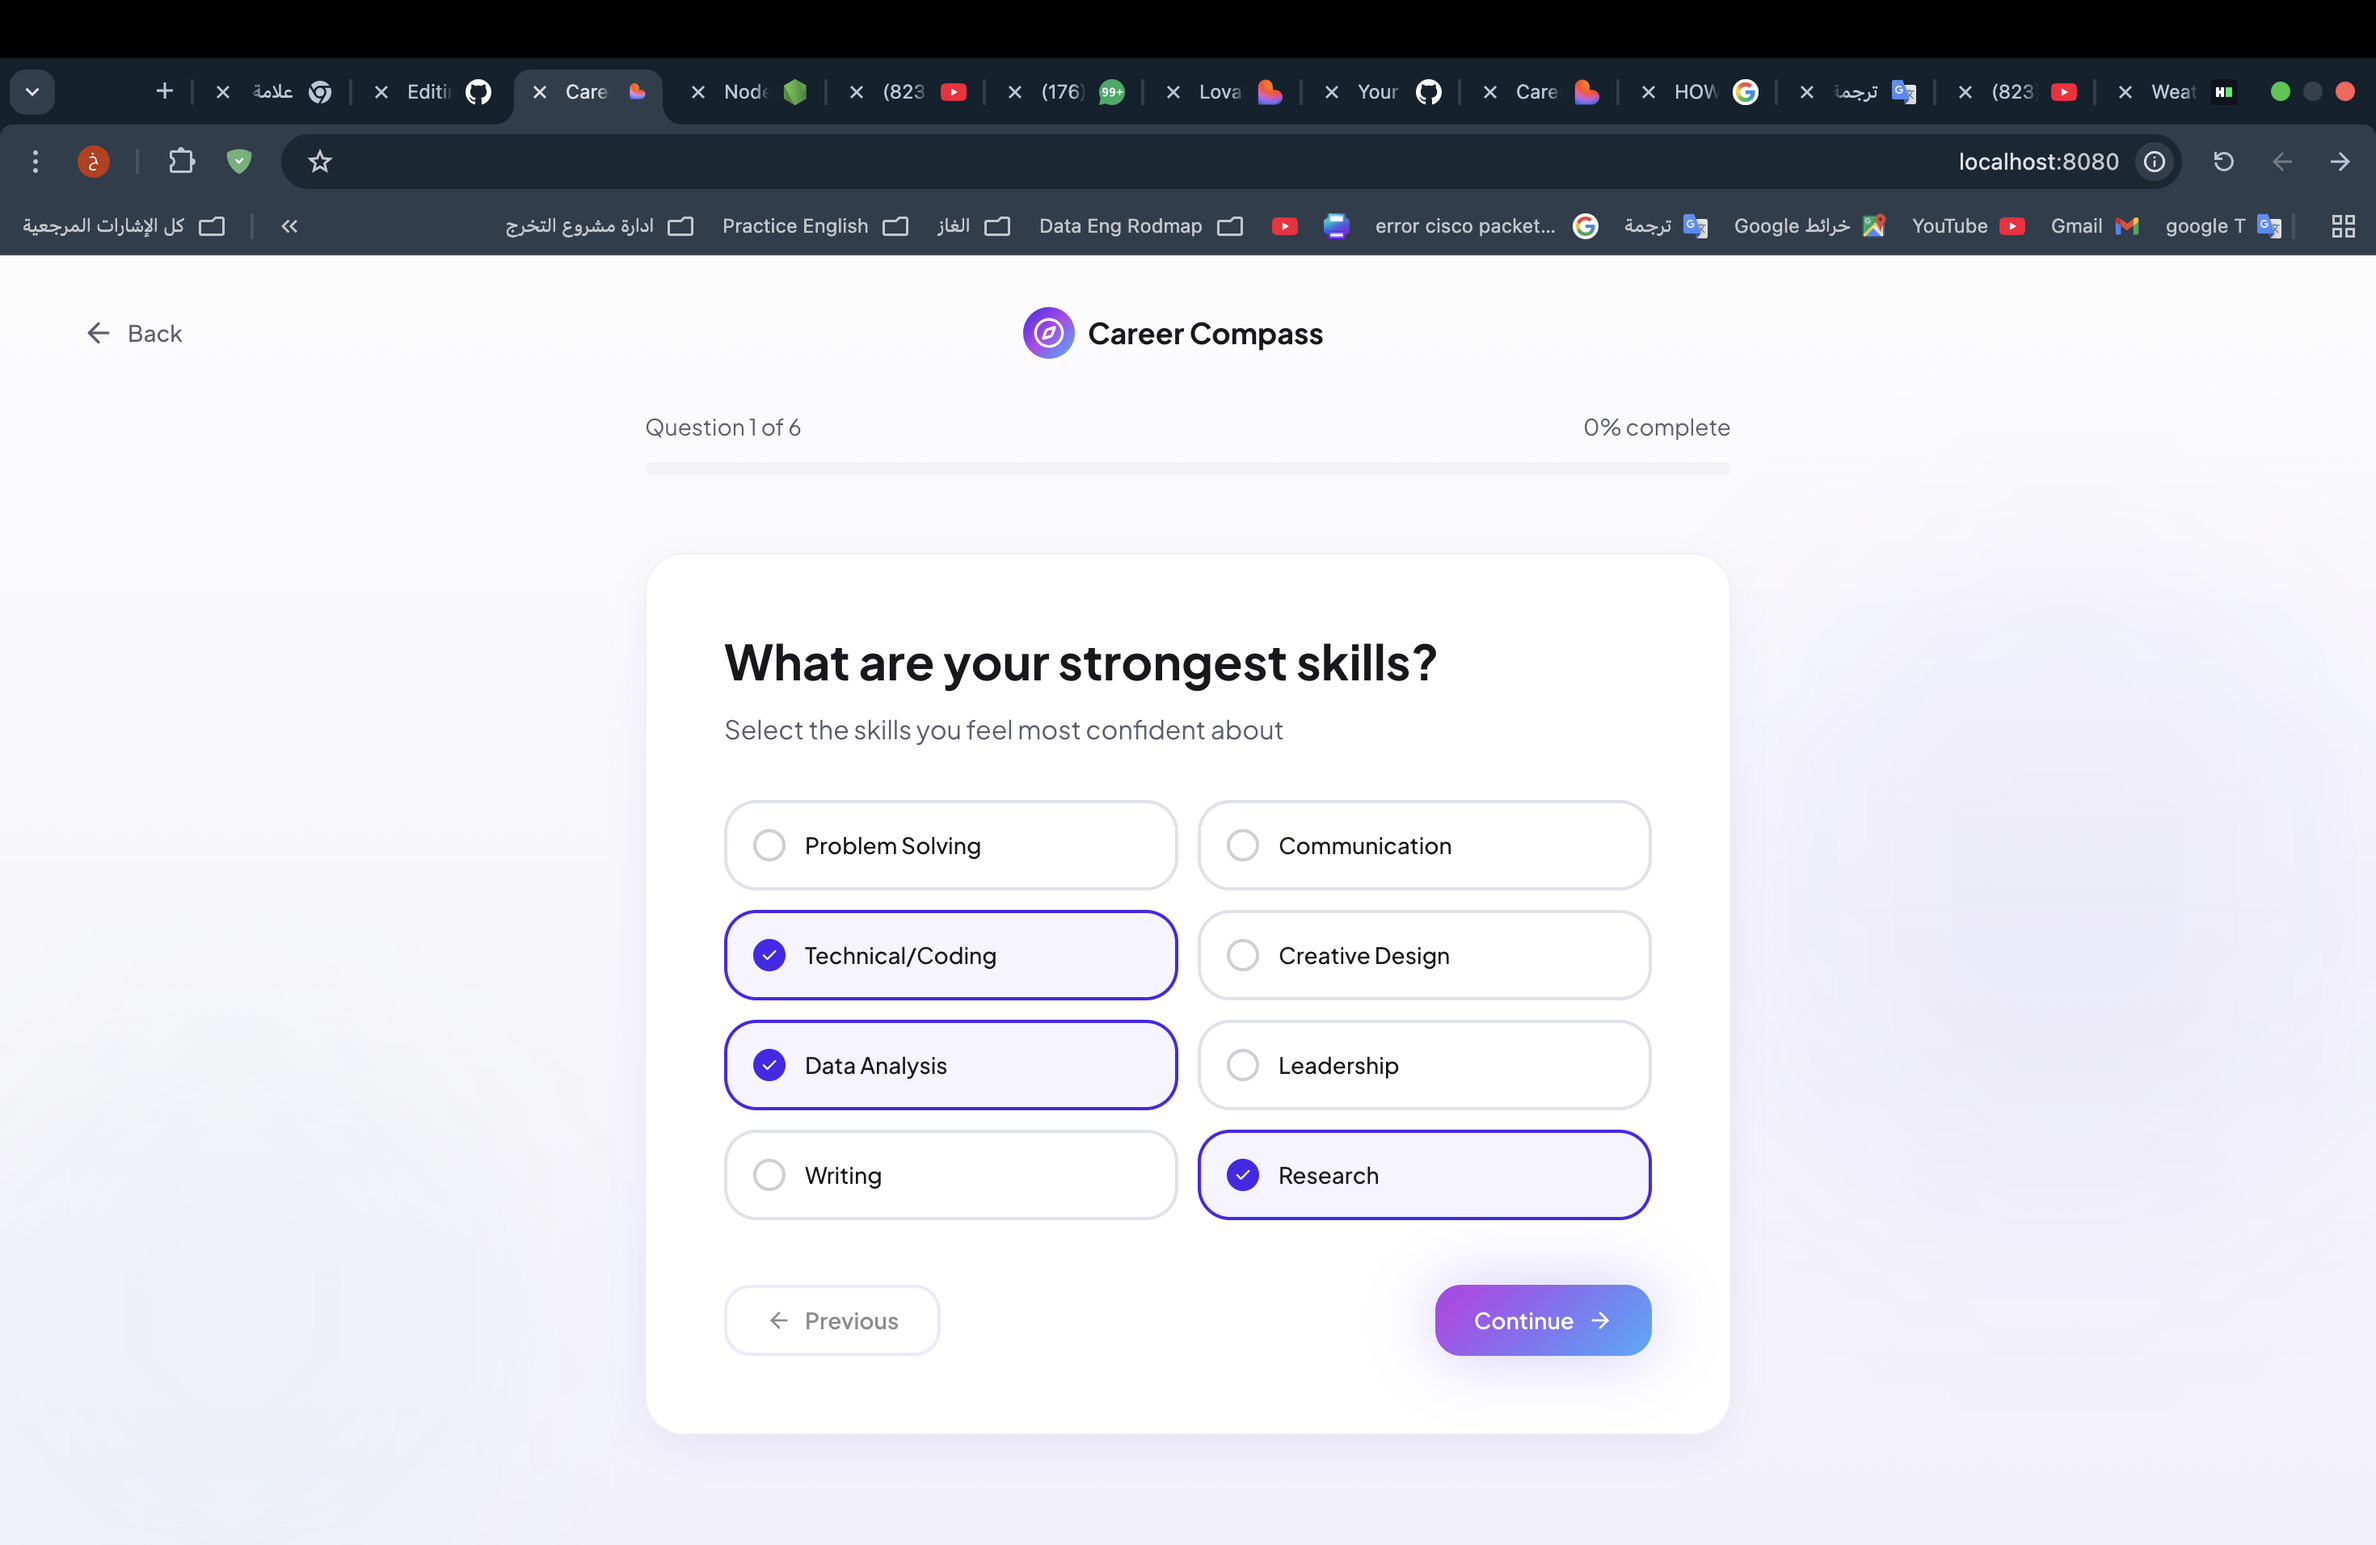
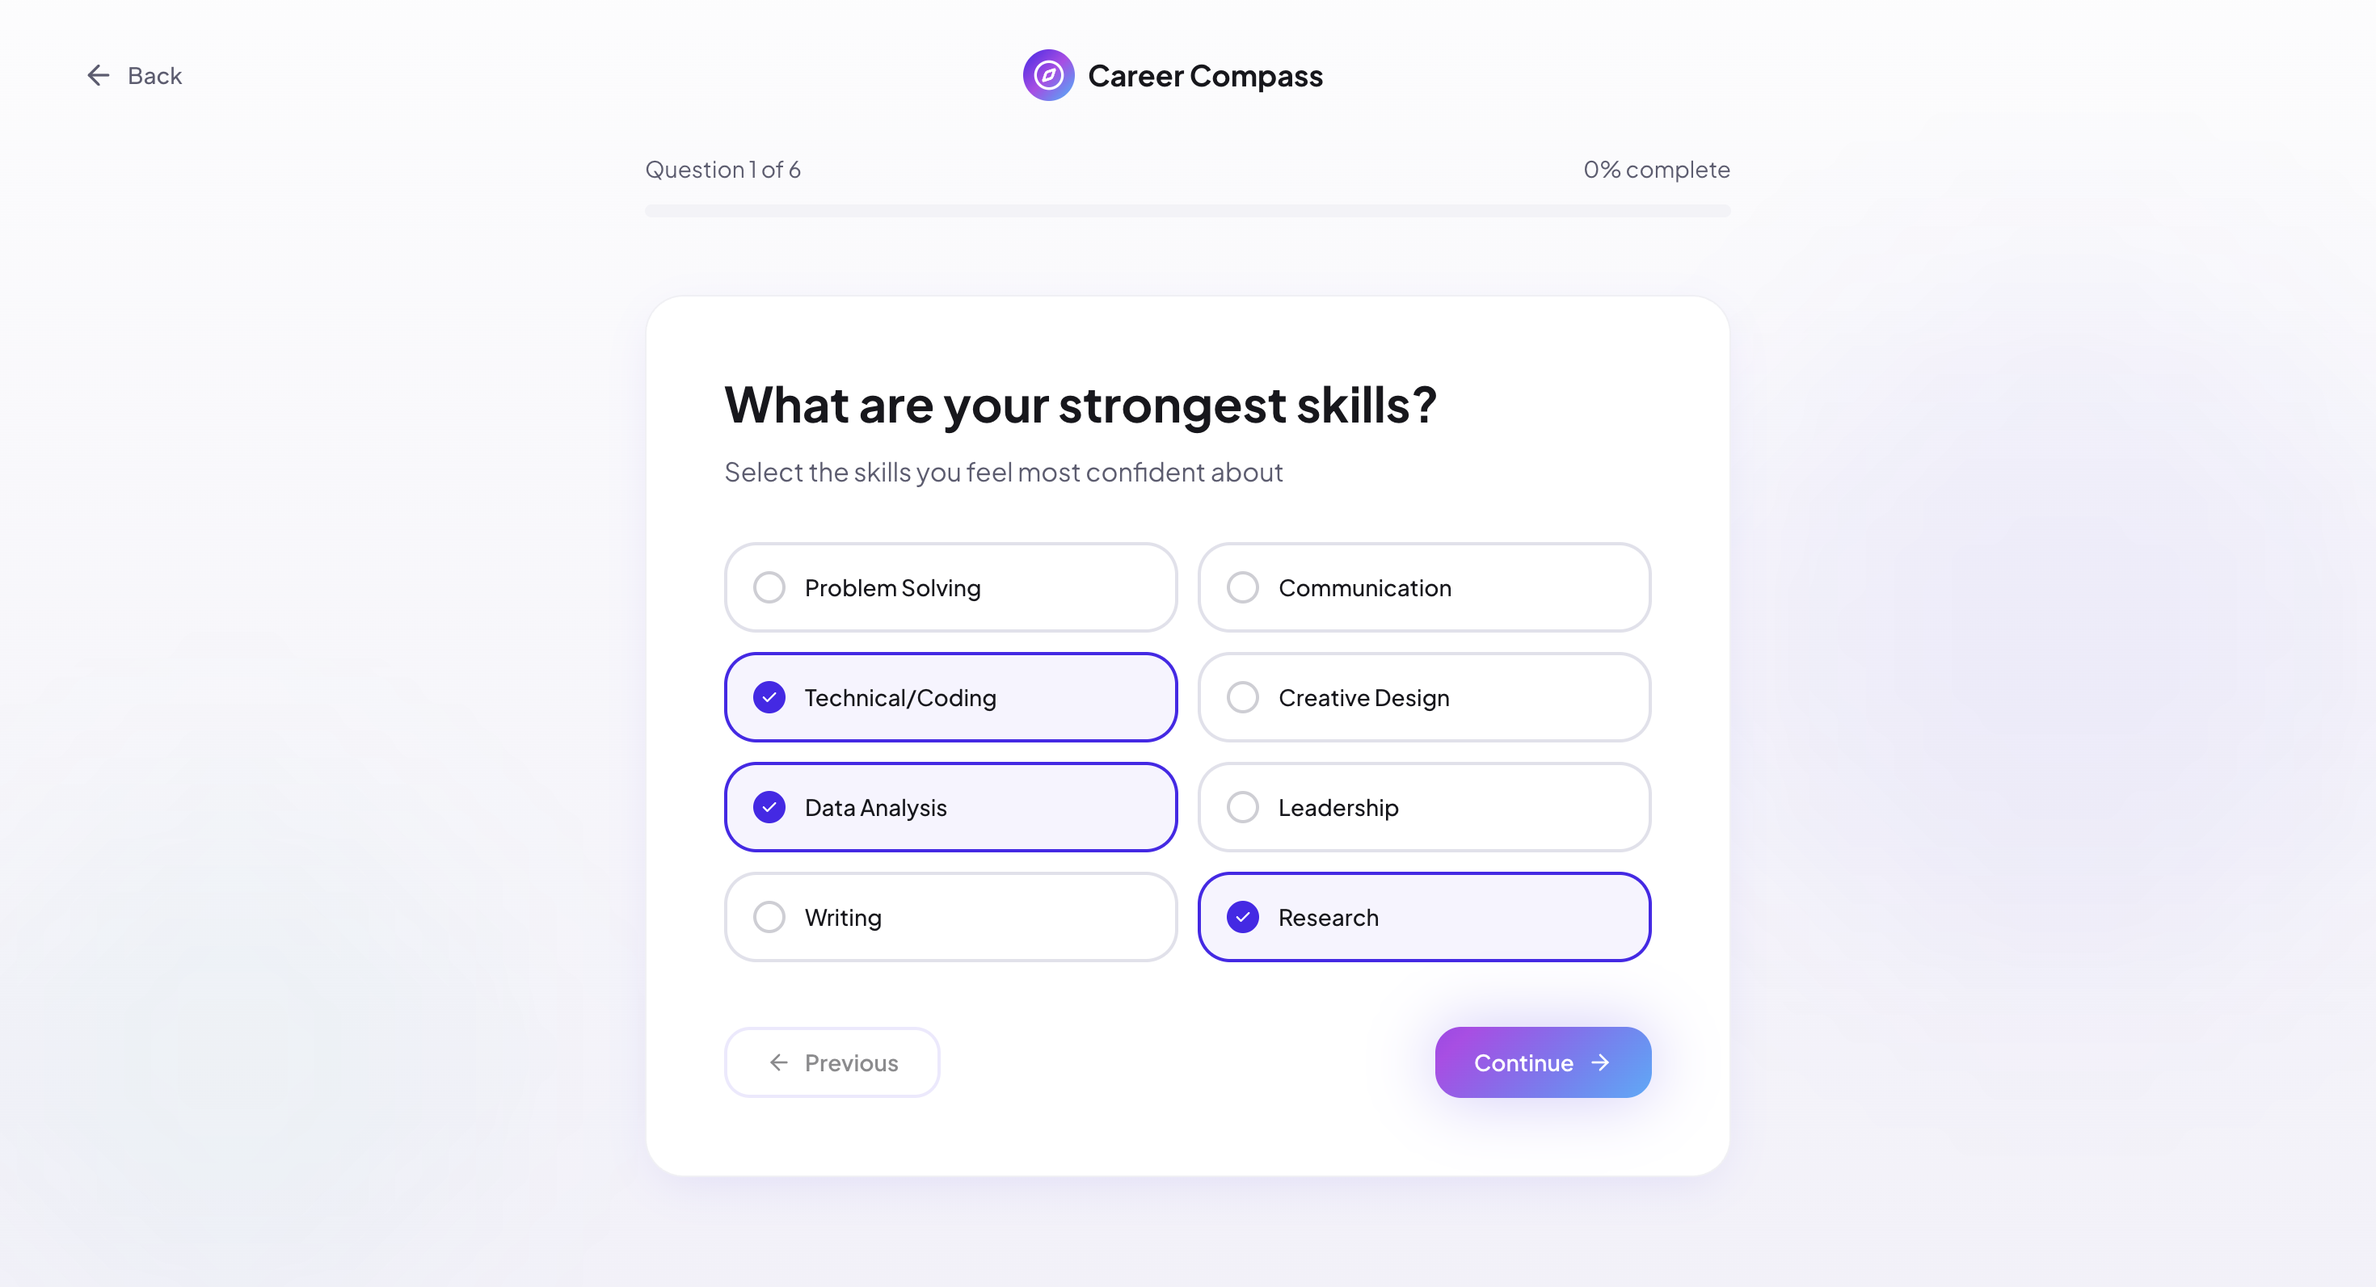
Edit README file

diff --git a/README.md b/README.md
@@ -19,7 +19,7 @@ The experience feels futuristic, motivational, and highly user-friendly.
 ![Screenshot](images/image1.png)
 
 *Screenshot (choosing strength skills):*  
-![Screenshot](images/image2.png)
+![Screenshot](images/image2.jpg)
 
 *Screenshot (Result):*  
 ![Screenshot](images/image3.png)
